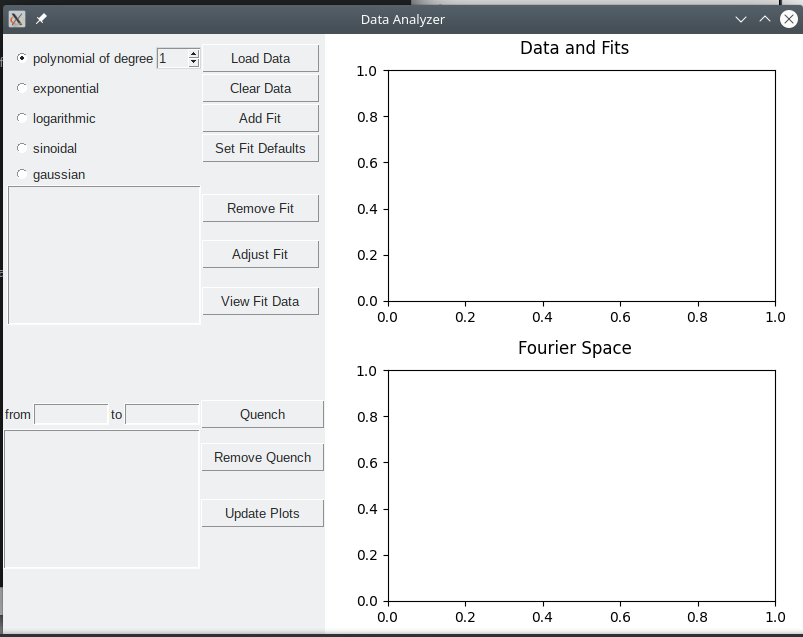
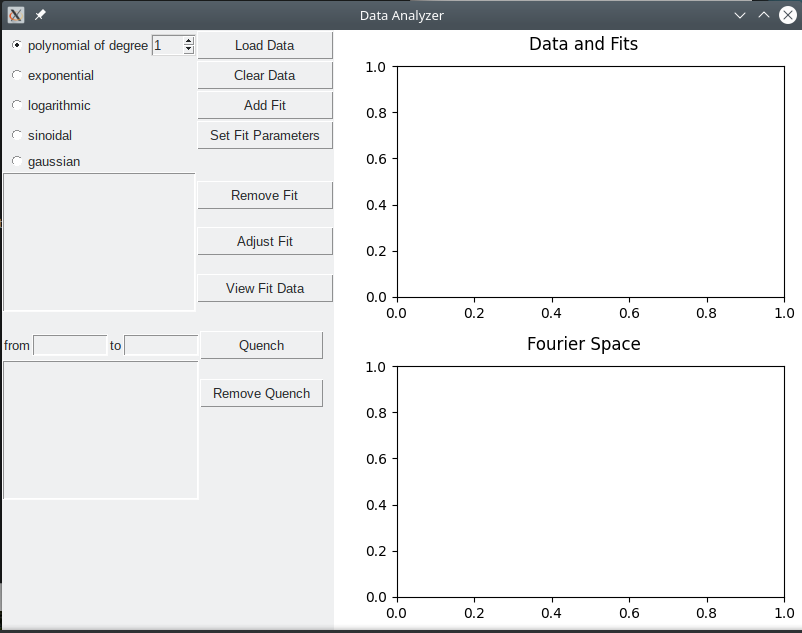
fixed line count to 666

diff --git a/X05/05-solutions.py b/X05/05-solutions.py
@@ -17,6 +17,7 @@ from tkinter import messagebox
 
 # ============================================================================ #
 # definition of widgets layout
+
 # ---------------------------------------------------------------------------- #
 # the main window and its four compartments; globals
 
@@ -47,6 +48,7 @@ txts = dict()
 
 # ============================================================================ #
 # global variables
+
 # ---------------------------------------------------------------------------- #
 # fit type data
 
@@ -63,7 +65,6 @@ paramCount = {
     3 : 3,      # sinoidal
     4 : 3       # gaussian
 }
-
 
 currentFitParams = {
     "Label" : "Fit",
@@ -306,6 +307,7 @@ def doQuenches () :
 
 # ============================================================================ #
 # button callbacks and assignment, real data compartment
+
 # ---------------------------------------------------------------------------- #
 # Clear Data
 
@@ -458,6 +460,7 @@ btns["Set Fit Parameters"]["command"] = callback_SetFitParameters
 
 # ============================================================================ #
 # button callbacks and assignment, fit compartment
+
 # ---------------------------------------------------------------------------- #
 # Remove Fit
 
@@ -612,6 +615,7 @@ btns["View Fit Data"]["command"] = callback_ViewFitData
 
 # ============================================================================ #
 # button callbacks and assignment, Fourier compartment
+
 # ---------------------------------------------------------------------------- #
 # Quench
 

diff --git a/X05/05-problems.tex b/X05/05-problems.tex
@@ -65,6 +65,8 @@ Now, generate the main window as shown below. For the time being, forget about w
 \end{center}
 Note that the big boxes are Listboxes and the small boxes next to the labels "from" and "to" are Entries. The widget next to the Radiobutton "polynomial of degree" is a Spinbox.
 
+Begin by analyzing the structure of the arrangement: What can be put in frames, grids, ...?
+
 \section{Data Structures}
 Think now of how to represent the plot data in memory and where to instantiate them (\ie in which scope). You will need X- and Y-Data for the original data, as well as Frequency- and Intensity-Data for the Fourier spectrum.
 
